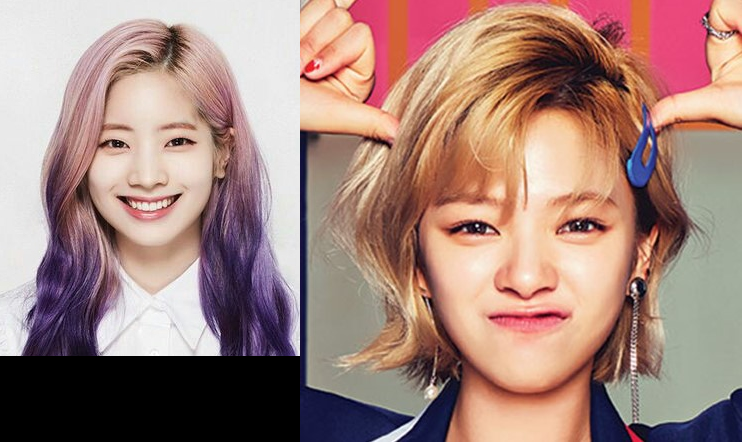
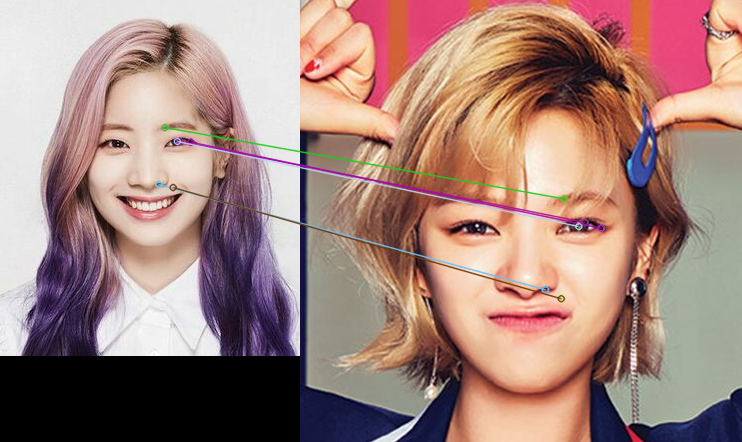
opened up threshold to 150, gets inliers, but ROI issue is back

diff --git a/src/FeatureDetection.java b/src/FeatureDetection.java
@@ -128,7 +128,7 @@ class FeatureDetection {
     	}
     	
     	/* check if our matches fit in homography model*/
-    	double inlierThreshold = 100; 
+    	double inlierThreshold = 150; 
     	List<KeyPoint> listOfInliers1 = new ArrayList<>();
     	List<KeyPoint> listOfInliers2 = new ArrayList<>();
     	List<DMatch> listOfGoodMatches = new ArrayList<>();
@@ -405,15 +405,16 @@ class FeatureDetection {
 //        System.out.println("MASK CHANNELS: " + mask.channels());
 //        System.out.println("-------------------");
         
+        System.out.println("R DIMENSIONS: " + r.size());
         r.height = result.height();
         r.width = result.width();
-//        System.out.println("RESULT DIMENSIONS: " + result.size());
-//        System.out.println("RESULT TYPE: " + result.type());
+        System.out.println("RESULT DIMENSIONS: " + result.size());
+        System.out.println("RESULT TYPE: " + result.type());
         temp.convertTo(temp, result.type());
-//        System.out.println("TEMP DIMENSIONS: " + temp.size());
-//        System.out.println("TEMP TYPE: " + temp.type());
-//        System.out.println("R DIMENSIONS: " + r.size());
-//        System.out.println("-------------------");
+        System.out.println("TEMP DIMENSIONS: " + temp.size());
+        System.out.println("TEMP TYPE: " + temp.type());
+        System.out.println("R DIMENSIONS: " + r.size());
+        System.out.println("-------------------");
         Core.multiply(result.submat(r), temp, result.submat(r));
 //        result.submat(r).copyTo(result);
         
